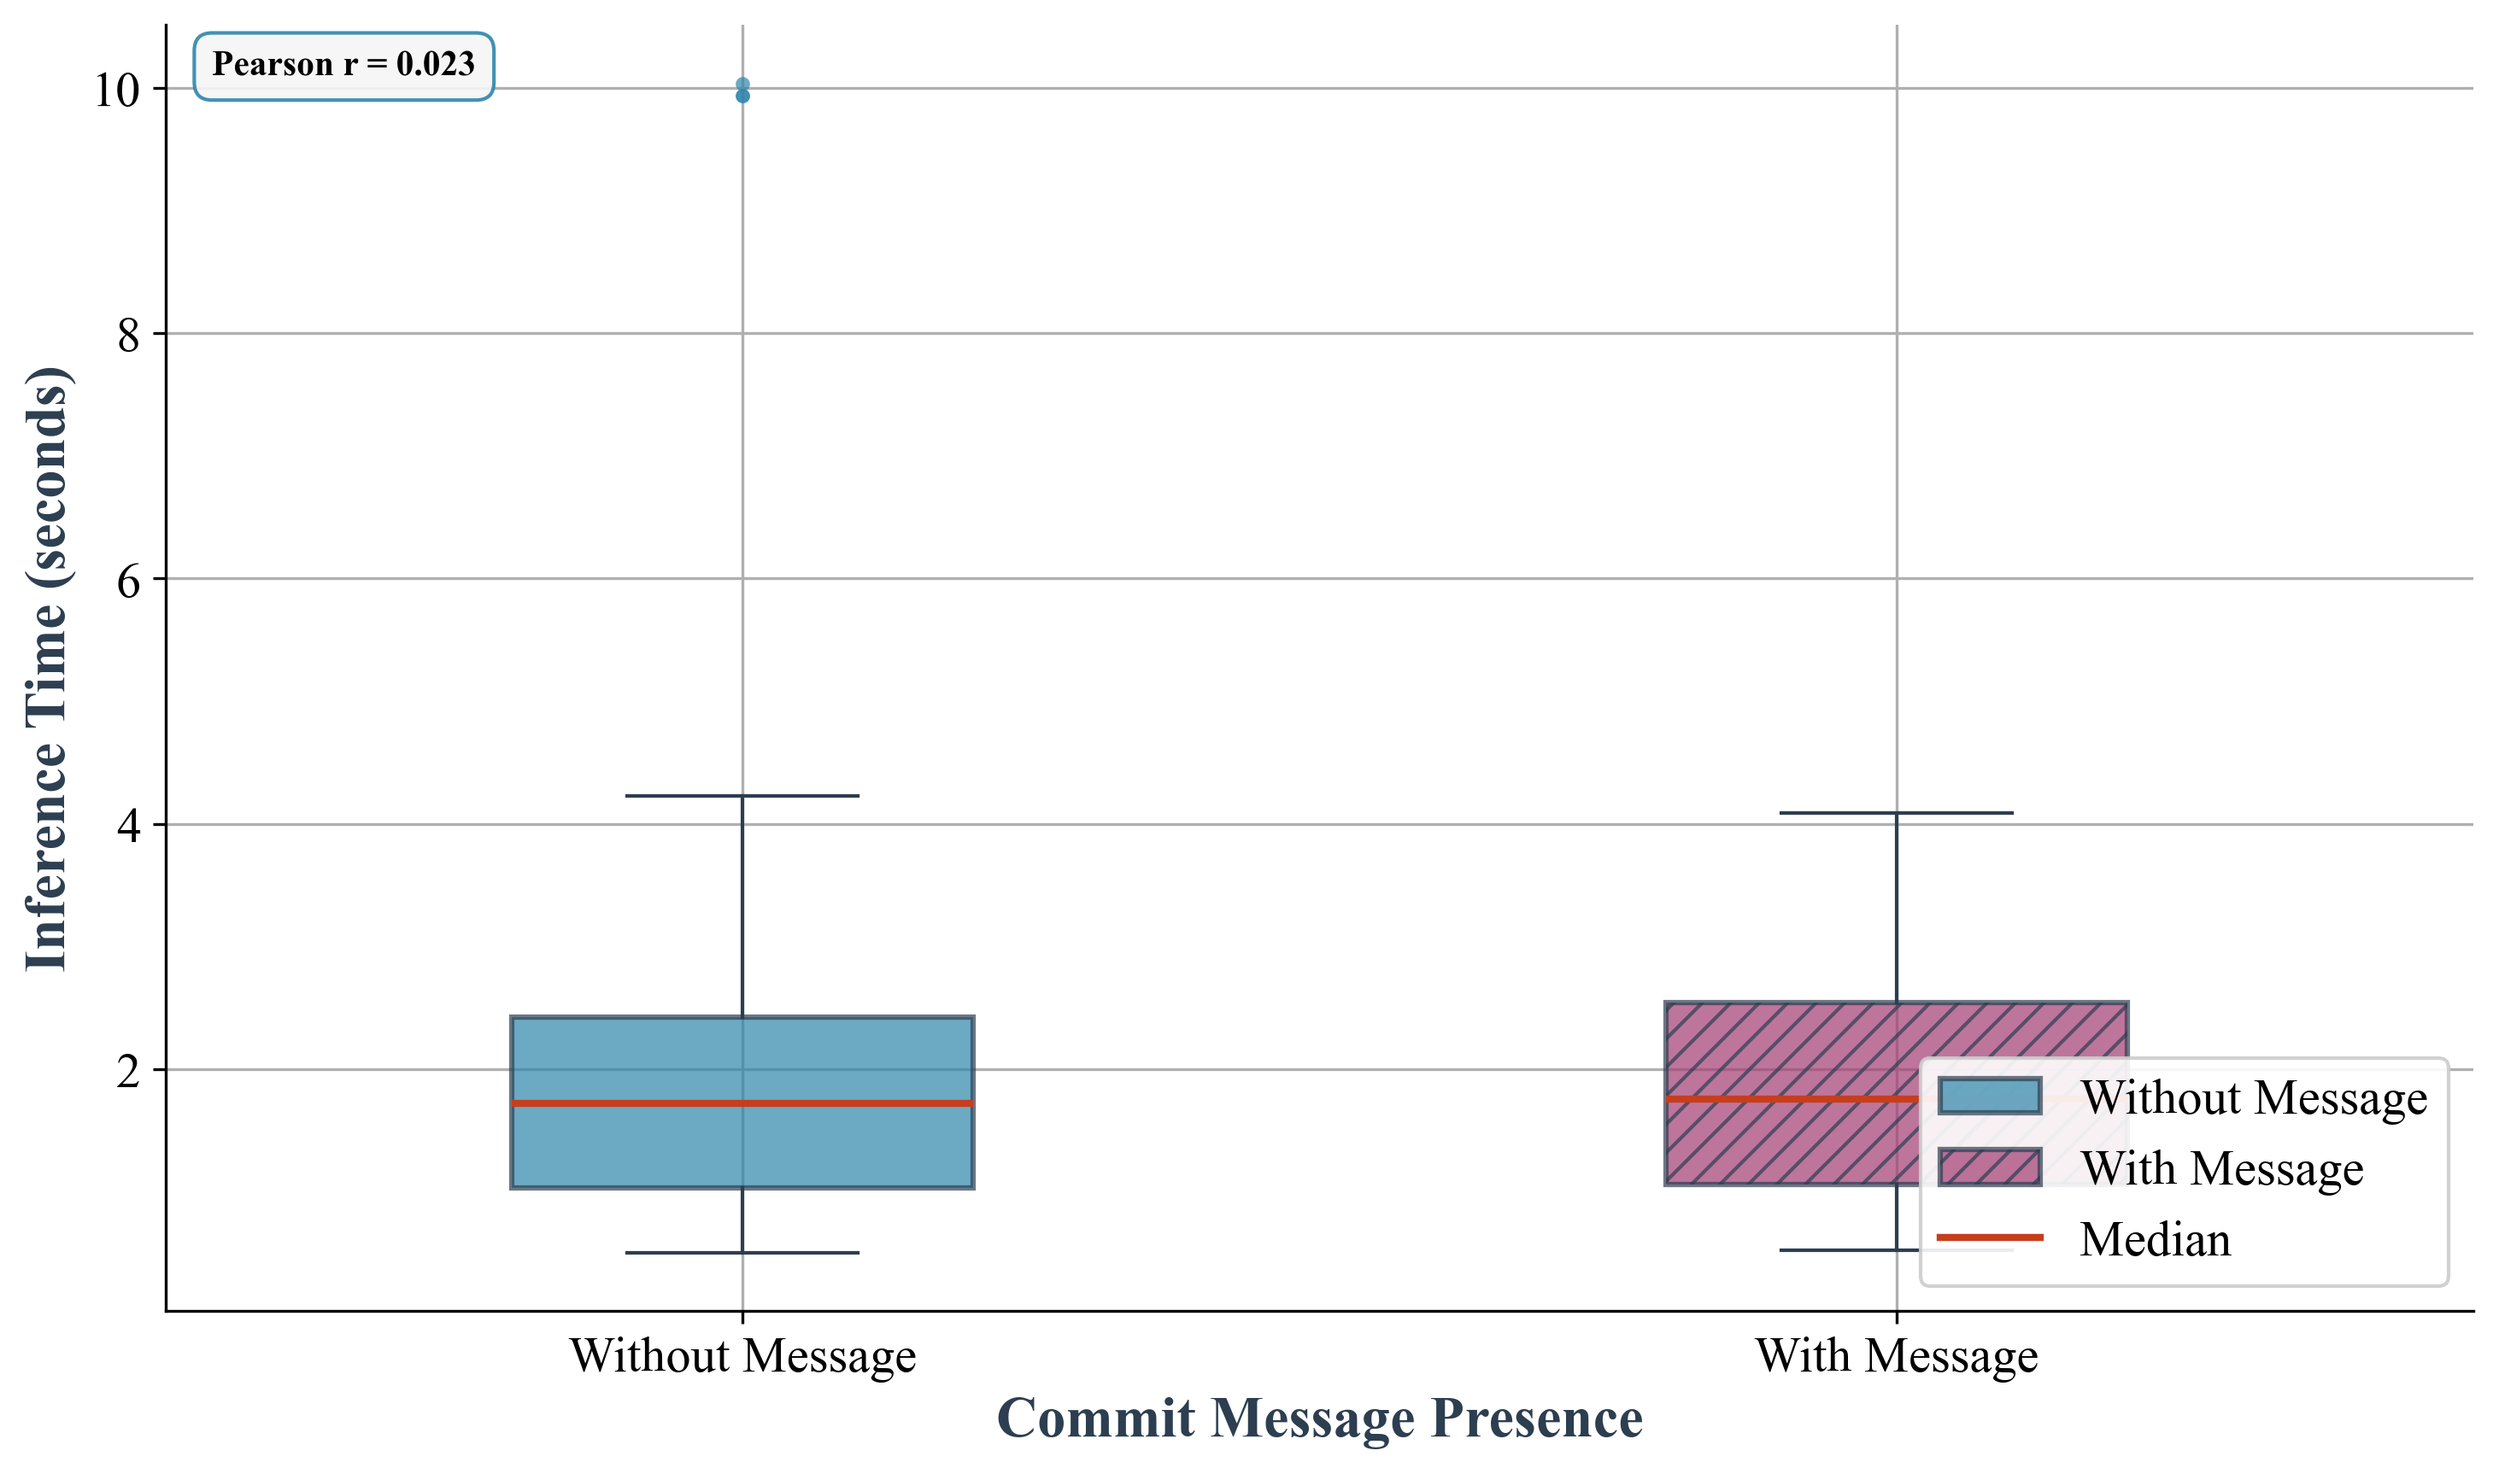
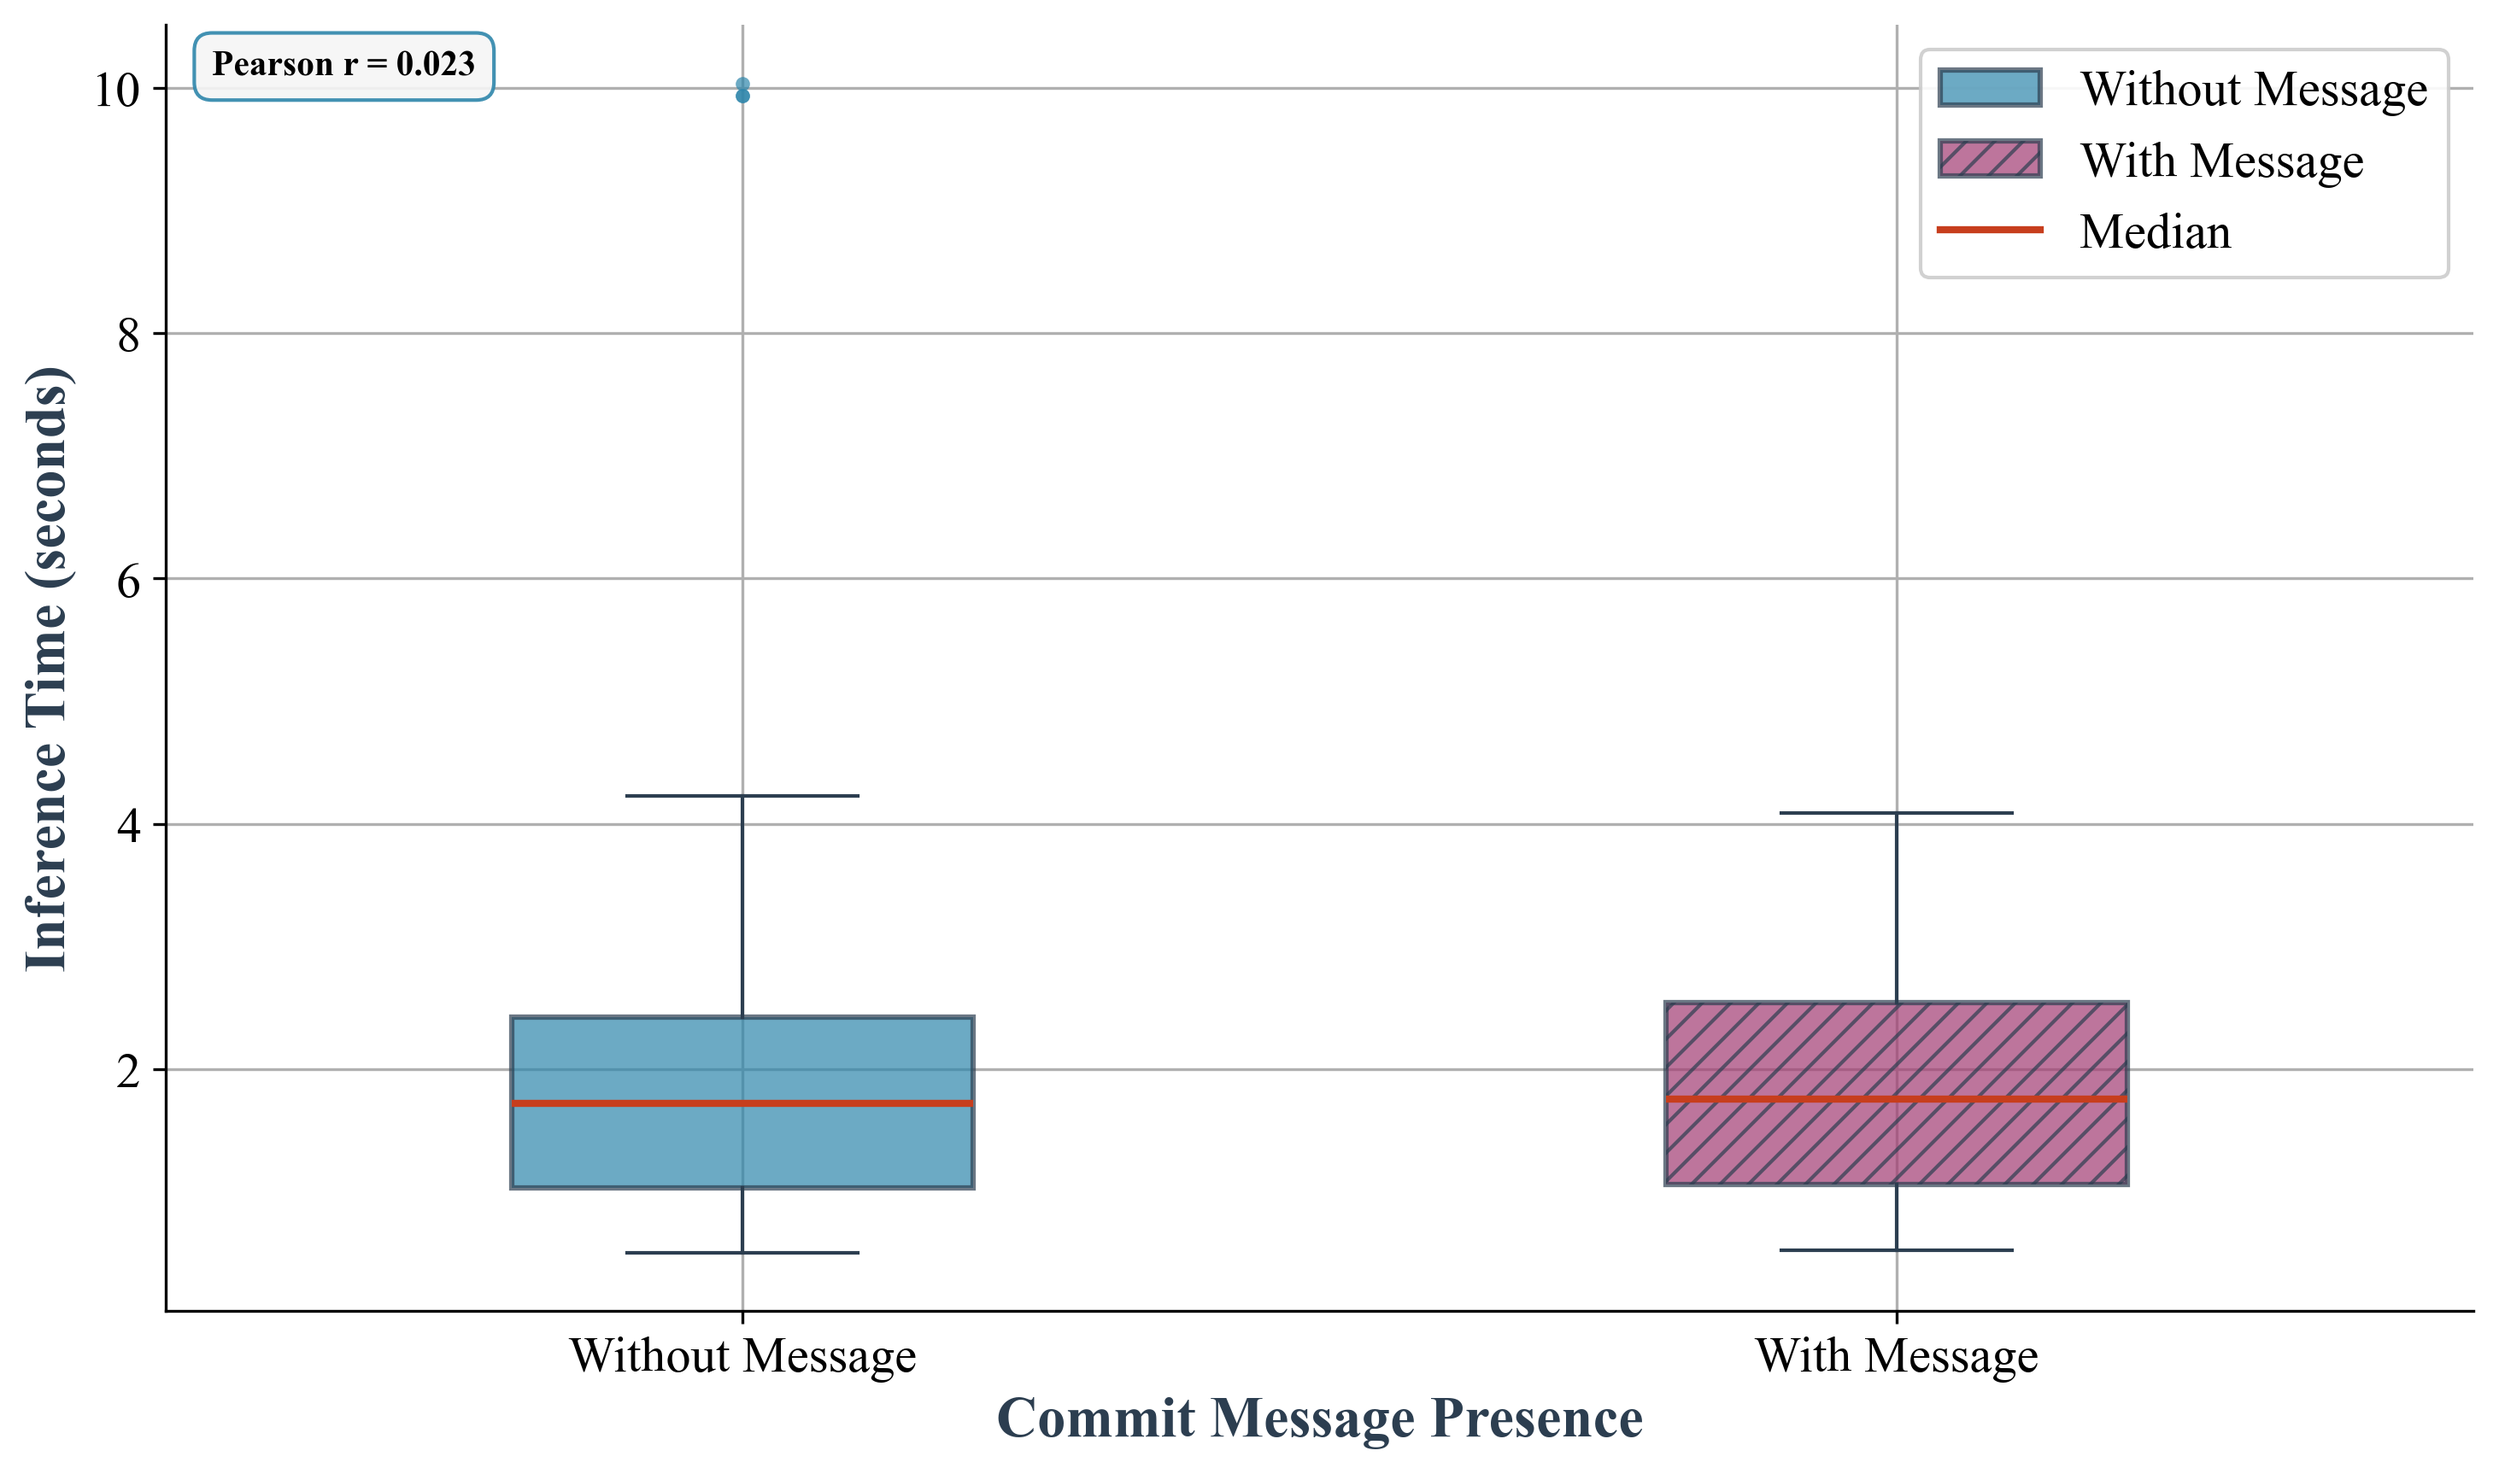
fix(RQ4): move commit-message legend above data (#28)

diff --git a/RQ/analysis/RQ4/efficiency_commit_message.py b/RQ/analysis/RQ4/efficiency_commit_message.py
@@ -99,7 +99,7 @@ def create_boxplot(df: pd.DataFrame, output_dir: Path) -> Path:
     legend_elements.append(
         Line2D([0], [0], color=COLORS["success"], linewidth=PLOT_STYLE["line_width"], label="Median")
     )
-    ax.legend(handles=legend_elements, loc="lower right", framealpha=0.9)
+    ax.legend(handles=legend_elements, loc="upper right", framealpha=0.9)
 
     plt.tight_layout()
 
